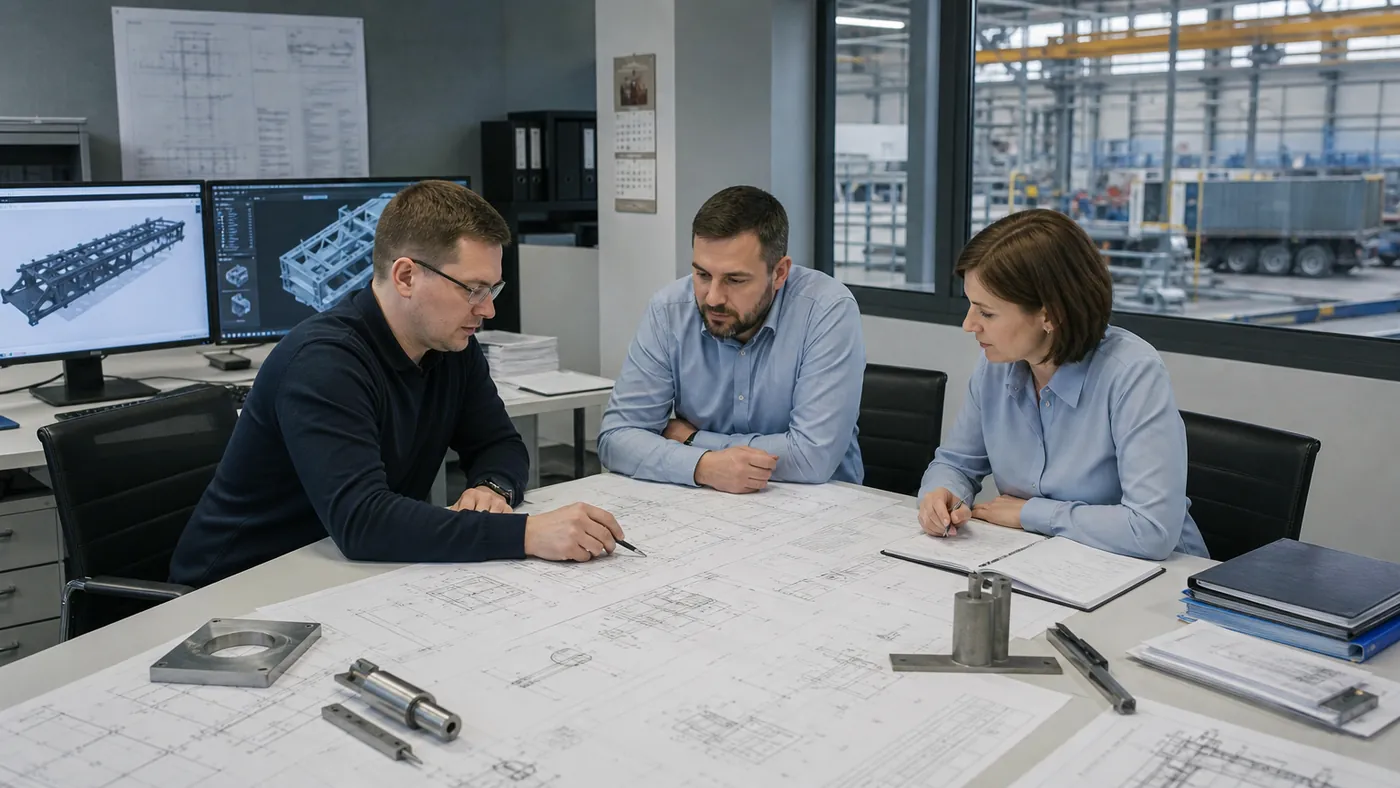
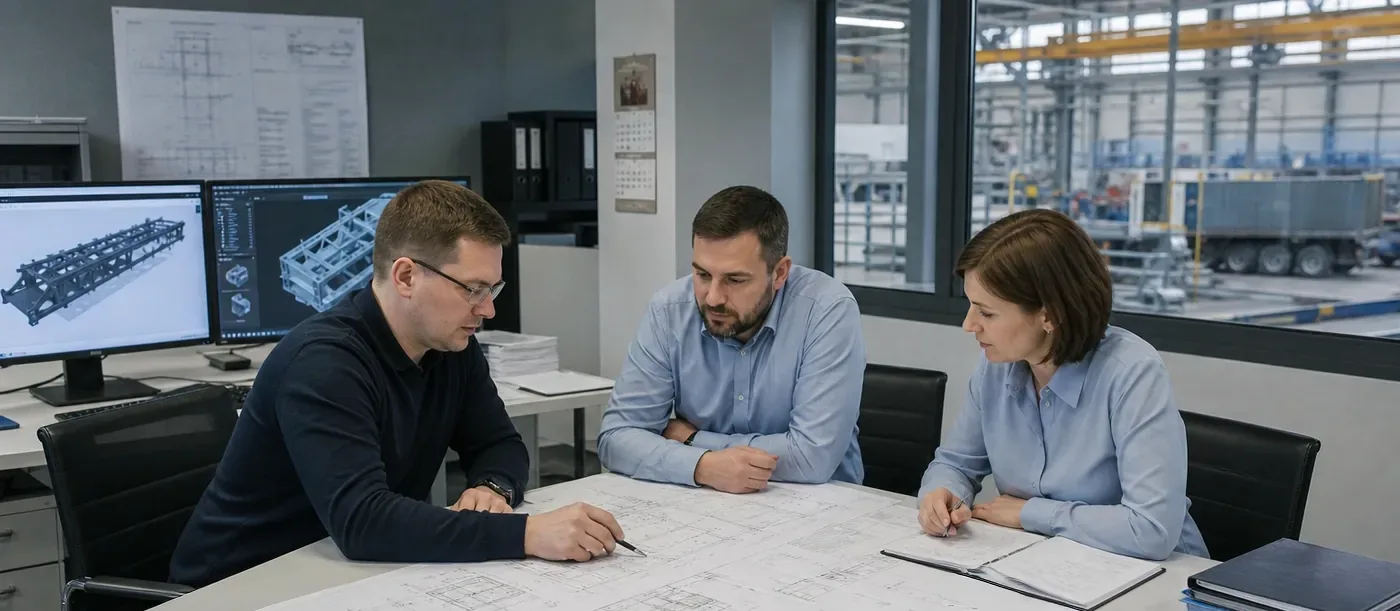
chore(about): новое широкое фото команды (2.29:1) без обрезки
Контейнер фото переведён с фиксированного 4:3-кропа на естественные
пропорции изображения.

diff --git a/src/styles.css b/src/styles.css
@@ -124,8 +124,8 @@ header.scrolled .menu a,header.scrolled .nav-phone,header.scrolled .nav-mail,hea
 .apoint .n{font-family:var(--disp);font-weight:600;font-size:clamp(26px,2.4vw,34px);color:var(--lline);line-height:1;flex:none;min-width:56px}
 .apoint h4{font-family:var(--disp);font-size:18px;text-transform:uppercase;margin-bottom:4px}
 .apoint p{font-size:14.5px;color:var(--mut-l)}
-.about-media{position:relative;border:1px solid var(--lline);border-radius:3px;overflow:hidden;aspect-ratio:4/3;background:var(--paper-2)}
-.about-media img{width:100%;height:100%;object-fit:cover}
+.about-media{position:relative;border:1px solid var(--lline);border-radius:3px;overflow:hidden;background:var(--paper-2)}
+.about-media img{width:100%;height:auto}
 
 /* DESIGN (проектирование установок) */
 .design-grid{display:grid;grid-template-columns:.9fr 1.1fr;gap:clamp(24px,4vw,56px);margin-top:44px;align-items:stretch}